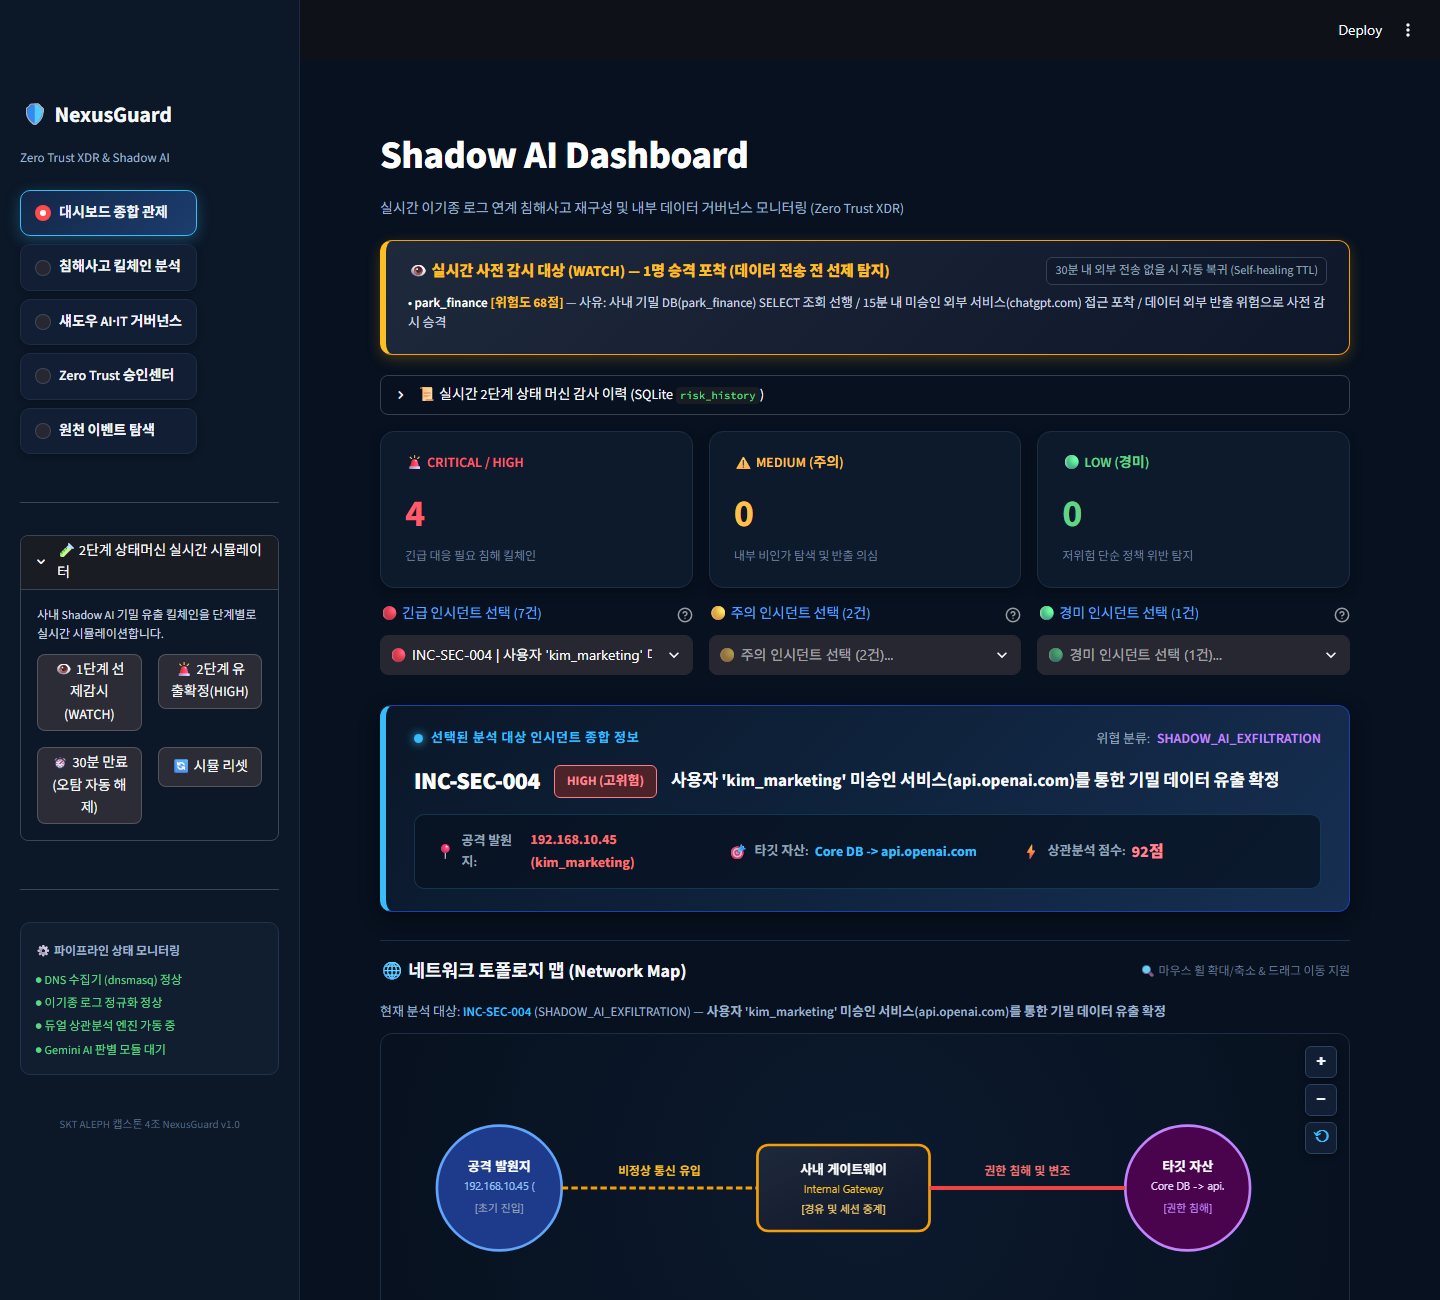
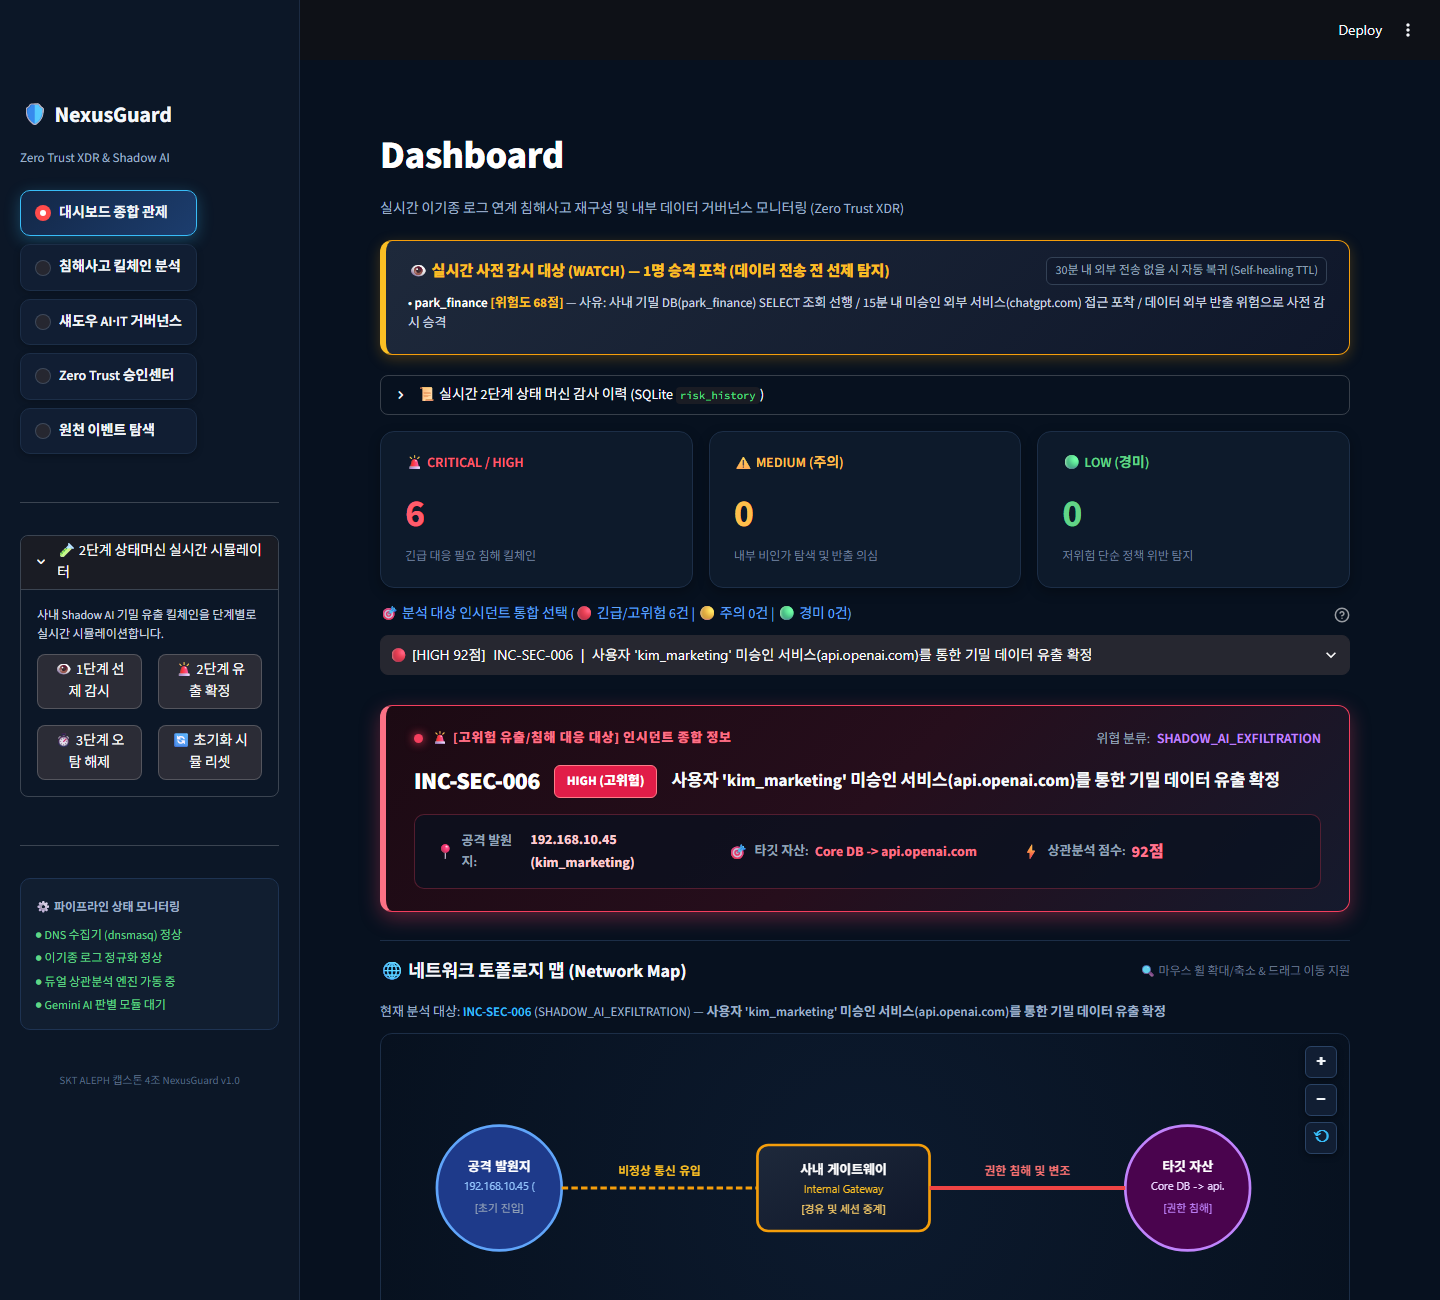
fix(ui): unify incident dropdown with severity badges, dynamic card theme, Dashboard title, and uniform simulator button sizes

diff --git a/nexusguard/ui/app.py b/nexusguard/ui/app.py
@@ -22,7 +22,7 @@ from nexusguard.schemas.event import SecurityEvent, LogSource, EventAction, Acto
 
 # 1. 페이지 기본 설정
 st.set_page_config(
-    page_title="Shadow AI Dashboard | NexusGuard",
+    page_title="Dashboard | NexusGuard",
     page_icon="🛡",
     layout="wide",
     initial_sidebar_state="expanded"
@@ -96,6 +96,24 @@ st.markdown("""
         font-size: 14px !important;
         font-weight: 600 !important;
         color: #f1f5f9 !important;
+    }
+
+    /* 사이드바 시뮬레이터 버튼 균일 크기 고정 및 줄바꿈 방지 */
+    section[data-testid="stSidebar"] div.stButton > button {
+        height: 56px !important;
+        min-height: 56px !important;
+        max-height: 56px !important;
+        width: 100% !important;
+        display: flex !important;
+        flex-direction: column !important;
+        align-items: center !important;
+        justify-content: center !important;
+        font-size: 12.5px !important;
+        font-weight: 700 !important;
+        line-height: 1.25 !important;
+        padding: 4px 6px !important;
+        border-radius: 8px !important;
+        white-space: pre-line !important;
     }
 
     /* KPI 카드 스타일 */
@@ -488,15 +506,15 @@ with st.sidebar:
         st.markdown("<div style='font-size:12px; color:#cbd5e1; margin-bottom:10px;'>사내 Shadow AI 기밀 유출 킬체인을 단계별로 실시간 시뮬레이션합니다.</div>", unsafe_allow_html=True)
         col_s1, col_s2 = st.columns(2)
         with col_s1:
-            btn_watch = st.button("👁 1단계\n선제감시(WATCH)", use_container_width=True, help="기밀 DB 조회 + 미승인 AI 질의 발생 -> 전송 전 WATCH 상태 승격")
+            btn_watch = st.button("👁 1단계\n선제 감시", use_container_width=True, help="기밀 DB 조회 + 미승인 AI 질의 발생 -> 전송 전 WATCH 상태 승격")
         with col_s2:
-            btn_high = st.button("🚨 2단계\n유출확정(HIGH)", use_container_width=True, help="WATCH 대상자의 48MB 대용량 외부 전송 발생 -> HIGH Incident 즉시 확정")
+            btn_high = st.button("🚨 2단계\n유출 확정", use_container_width=True, help="WATCH 대상자의 48MB 대용량 외부 전송 발생 -> HIGH Incident 즉시 확정")
             
         col_s3, col_s4 = st.columns(2)
         with col_s3:
-            btn_heal = st.button("⏱ 30분 만료\n(오탐 자동 해제)", use_container_width=True, help="전송 없이 30분 경과 -> NORMAL 상태로 자가 치유")
+            btn_heal = st.button("⏱ 3단계\n오탐 해제", use_container_width=True, help="전송 없이 30분 경과 -> NORMAL 상태로 자가 치유")
         with col_s4:
-            btn_reset = st.button("🔄 시뮬 리셋", use_container_width=True, help="시뮬레이션 데이터 초기화")
+            btn_reset = st.button("🔄 초기화\n시뮬 리셋", use_container_width=True, help="시뮬레이션 데이터 초기화")
 
     if btn_watch:
         now = datetime.utcnow()
@@ -1251,7 +1269,7 @@ def render_interactive_map(svg_markup: str):
 if menu == "대시보드 종합 관제":
     st.markdown("""
     <div style="margin-bottom: 20px;">
-        <h1 style="margin:0; font-size: 39px; font-weight: 800; color:#ffffff; letter-spacing: -0.5px;">Shadow AI Dashboard</h1>
+        <h1 style="margin:0; font-size: 39px; font-weight: 800; color:#ffffff; letter-spacing: -0.5px;">Dashboard</h1>
         <span style="color: #9fb0c8; font-size: 14px;">실시간 이기종 로그 연계 침해사고 재구성 및 내부 데이터 거버넌스 모니터링 (Zero Trust XDR)</span>
     </div>
     """, unsafe_allow_html=True)
@@ -1266,68 +1284,33 @@ if menu == "대시보드 종합 관제":
     if "selected_incident_id" not in st.session_state or st.session_state.selected_incident_id not in all_incident_ids:
         st.session_state.selected_incident_id = all_incident_ids[0]
 
-    # 3대 위험도별 드롭다운 콜백 함수 (다른 그룹의 드롭다운 값은 리셋하여 재선택 가능하도록 처리)
-    def on_select_crit_high():
-        val = st.session_state.sel_crit_high_dropdown
-        if val:
-            st.session_state.selected_incident_id = val
-            st.session_state.sel_med_dropdown = None
-            st.session_state.sel_low_dropdown = None
+    # 위험도 우선순위 정렬: CRITICAL -> HIGH -> MEDIUM -> LOW (동일 등급 내 점수 내림차순)
+    sev_order = {Severity.CRITICAL: 0, Severity.HIGH: 1, Severity.MEDIUM: 2, Severity.LOW: 3}
+    sorted_incidents = sorted(
+        incidents,
+        key=lambda x: (sev_order.get(x.severity, 99), -x.score)
+    )
+    sorted_incident_ids = [inc.incident_id for inc in sorted_incidents]
 
-    def on_select_med():
-        val = st.session_state.sel_med_dropdown
-        if val:
-            st.session_state.selected_incident_id = val
-            st.session_state.sel_crit_high_dropdown = None
-            st.session_state.sel_low_dropdown = None
-
-    def on_select_low():
-        val = st.session_state.sel_low_dropdown
-        if val:
-            st.session_state.selected_incident_id = val
-            st.session_state.sel_crit_high_dropdown = None
-            st.session_state.sel_med_dropdown = None
-
-    # 드롭다운 옵션 레이블 포맷터
-    # 🔴 사용자 요청: 긴급 인시던트 드롭다운 메뉴 안의 모든 항목 앞 위험도 색상을 '빨강(🔴)'으로 통일
-    def format_crit_high_dropdown(inc_id: str) -> str:
+    # 🌟 [단일 통합 드롭다운 포맷터] 위험도별 색상 및 기호로 시인성 극대화
+    def format_unified_incident(inc_id: str) -> str:
         inc = ctx.correlation_engine.get_incident(inc_id)
         if not inc:
             return inc_id
-        return f"🔴 {inc.incident_id} | {inc.title}"
+        if inc.severity == Severity.CRITICAL:
+            badge = f"🔴 [CRITICAL {inc.score}점]"
+        elif inc.severity == Severity.HIGH:
+            badge = f"🔴 [HIGH {inc.score}점]"
+        elif inc.severity == Severity.MEDIUM:
+            badge = f"🟡 [MEDIUM {inc.score}점]"
+        else:
+            badge = f"🟢 [LOW {inc.score}점]"
+        return f"{badge}  {inc.incident_id}  |  {inc.title}"
 
-    def format_med_dropdown(inc_id: str) -> str:
-        inc = ctx.correlation_engine.get_incident(inc_id)
-        if not inc:
-            return inc_id
-        return f"🟡 {inc.incident_id} | {inc.title}"
+    cur_idx = sorted_incident_ids.index(st.session_state.selected_incident_id) if st.session_state.selected_incident_id in sorted_incident_ids else 0
 
-    def format_low_dropdown(inc_id: str) -> str:
-        inc = ctx.correlation_engine.get_incident(inc_id)
-        if not inc:
-            return inc_id
-        return f"🟢 {inc.incident_id} | {inc.title}"
-
-    # 세션 상태 안전 동기화 (현재 선택된 인시던트가 속한 그룹만 활성화하고, 나머지는 None으로 설정하여 변경 감지 보장)
-    cur_sel = st.session_state.selected_incident_id
-
-    if cur_sel in crit_high_ids:
-        st.session_state.sel_crit_high_dropdown = cur_sel
-        st.session_state.sel_med_dropdown = None
-        st.session_state.sel_low_dropdown = None
-    elif cur_sel in med_ids:
-        st.session_state.sel_med_dropdown = cur_sel
-        st.session_state.sel_crit_high_dropdown = None
-        st.session_state.sel_low_dropdown = None
-    elif cur_sel in low_ids:
-        st.session_state.sel_low_dropdown = cur_sel
-        st.session_state.sel_crit_high_dropdown = None
-        st.session_state.sel_med_dropdown = None
-
-    # 각 드롭다운의 초기 인덱스 계산
-    crit_high_idx = crit_high_ids.index(cur_sel) if cur_sel in crit_high_ids else None
-    med_idx = med_ids.index(cur_sel) if cur_sel in med_ids else None
-    low_idx = low_ids.index(cur_sel) if cur_sel in low_ids else None
+    def on_select_unified():
+        st.session_state.selected_incident_id = st.session_state.sel_unified_incident
 
     # 🌟 [2단계 위험 상태 기계] 실시간 감시 대상 (WATCH) 현황판
     watch_users = ctx.correlation_engine.get_watch_users()
@@ -1361,10 +1344,9 @@ if menu == "대시보드 종합 관제":
         else:
             st.caption("아직 기록된 상태 전이 이력이 없습니다. 좌측 사이드바 시뮬레이터를 실행해보세요.")
 
-    # 3대 위험도별 KPI 카드 및 드롭다운 메뉴 (CRITICAL/HIGH, MEDIUM, LOW로 3분할 균등 확장)
+    # 3대 위험도별 KPI 카드
     kpi1, kpi2, kpi3 = st.columns(3)
 
-    # [파트 1] CRITICAL / HIGH
     with kpi1:
         st.markdown(f"""
         <div class="kpi-card">
@@ -1375,18 +1357,7 @@ if menu == "대시보드 종합 관제":
             <div class="kpi-sub">긴급 대응 필요 침해 킬체인</div>
         </div>
         """, unsafe_allow_html=True)
-        st.selectbox(
-            "🔴 긴급 인시던트 선택 (7건)",
-            options=crit_high_ids,
-            index=crit_high_idx,
-            placeholder="🔴 긴급 인시던트 선택 (7건)...",
-            format_func=format_crit_high_dropdown,
-            key="sel_crit_high_dropdown",
-            on_change=on_select_crit_high,
-            help="치명(Critical) 및 고위험(High) 긴급 대응 인시던트 목록입니다."
-        )
 
-    # [파트 2] MEDIUM (주의)
     with kpi2:
         st.markdown(f"""
         <div class="kpi-card">
@@ -1397,18 +1368,7 @@ if menu == "대시보드 종합 관제":
             <div class="kpi-sub">내부 비인가 탐색 및 반출 의심</div>
         </div>
         """, unsafe_allow_html=True)
-        st.selectbox(
-            "🟡 주의 인시던트 선택 (2건)",
-            options=med_ids,
-            index=med_idx,
-            placeholder="🟡 주의 인시던트 선택 (2건)...",
-            format_func=format_med_dropdown,
-            key="sel_med_dropdown",
-            on_change=on_select_med,
-            help="주의(Medium) 단계 인시던트 목록입니다."
-        )
 
-    # [파트 3] LOW (경미)
     with kpi3:
         st.markdown(f"""
         <div class="kpi-card">
@@ -1419,32 +1379,89 @@ if menu == "대시보드 종합 관제":
             <div class="kpi-sub">저위험 단순 정책 위반 탐지</div>
         </div>
         """, unsafe_allow_html=True)
-        st.selectbox(
-            "🟢 경미 인시던트 선택 (1건)",
-            options=low_ids,
-            index=low_idx,
-            placeholder="🟢 경미 인시던트 선택 (1건)...",
-            format_func=format_low_dropdown,
-            key="sel_low_dropdown",
-            on_change=on_select_low,
-            help="경미(Low) 단계 인시던트 목록입니다."
-        )
 
-    # 선택된 분석 대상 인시던트 종합 정보 카드 (전폭 100% 확장 및 세로 길이 대폭 확대)
+    # 🌟 [단일 통합 드롭다운] 사용자 요청: 3분할 드롭다운을 1개로 통합하고 위험도별 색상과 기호로 가시성 극대화
+    st.selectbox(
+        f"🎯 분석 대상 인시던트 통합 선택 (🔴 긴급/고위험 {len(crit_high_ids)}건  |  🟡 주의 {len(med_ids)}건  |  🟢 경미 {len(low_ids)}건)",
+        options=sorted_incident_ids,
+        index=cur_idx,
+        format_func=format_unified_incident,
+        key="sel_unified_incident",
+        on_change=on_select_unified,
+        help="위험도별(🔴긴급/고위험 ➔ 🟡주의 ➔ 🟢경미)로 정렬된 통합 인시던트 목록입니다."
+    )
+
+    # 선택된 분석 대상 인시던트 종합 정보 카드 (위험도별 동적 색상 및 테마 반영)
     selected_inc = ctx.correlation_engine.get_incident(st.session_state.selected_incident_id)
-    sev_badge_bar = {
-        Severity.CRITICAL: '<span class="badge badge-critical" style="font-size:13px; padding:5px 12px;">CRITICAL (치명)</span>',
-        Severity.HIGH: '<span class="badge badge-high" style="font-size:13px; padding:5px 12px;">HIGH (고위험)</span>',
-        Severity.MEDIUM: '<span class="badge badge-medium" style="font-size:13px; padding:5px 12px;">MEDIUM (주의)</span>',
-        Severity.LOW: '<span class="badge badge-low" style="font-size:13px; padding:5px 12px;">LOW (경미)</span>'
-    }.get(selected_inc.severity, "")
+
+    # 🌟 사용자 요청: 위험도 색상을 카드 테두리, 발광, 텍스트, 뱃지 전반에 반영하여 시인성 향상
+    if selected_inc.severity == Severity.CRITICAL:
+        card_theme = {
+            "border": "#ef4444",
+            "border_left": "#f87171",
+            "glow": "rgba(239, 68, 68, 0.35)",
+            "bg": "linear-gradient(135deg, #1f0b12 0%, #290f1b 50%, #151a2d 100%)",
+            "header_color": "#f87171",
+            "header_label": "🚨 [치명적 침해사고 긴급 격리 대상] 인시던트 종합 정보",
+            "dot_glow": "#ef4444",
+            "badge": '<span class="badge badge-critical" style="font-size:13px; padding:5px 12px; background:#dc2626; color:#ffffff; font-weight:800; border-radius:6px;">CRITICAL (치명)</span>',
+            "score_color": "#ff4d61",
+            "actor_color": "#fca5a5",
+            "target_color": "#f87171",
+            "inner_border": "rgba(239, 68, 68, 0.3)",
+        }
+    elif selected_inc.severity == Severity.HIGH:
+        card_theme = {
+            "border": "#f43f5e",
+            "border_left": "#fb7185",
+            "glow": "rgba(244, 63, 94, 0.35)",
+            "bg": "linear-gradient(135deg, #1c0a13 0%, #260e1c 50%, #151a2d 100%)",
+            "header_color": "#fb7185",
+            "header_label": "🚨 [고위험 유출/침해 대응 대상] 인시던트 종합 정보",
+            "dot_glow": "#f43f5e",
+            "badge": '<span class="badge badge-high" style="font-size:13px; padding:5px 12px; background:#e11d48; color:#ffffff; font-weight:800; border-radius:6px;">HIGH (고위험)</span>',
+            "score_color": "#ff758f",
+            "actor_color": "#fecdd3",
+            "target_color": "#fb7185",
+            "inner_border": "rgba(244, 63, 94, 0.3)",
+        }
+    elif selected_inc.severity == Severity.MEDIUM:
+        card_theme = {
+            "border": "#f59e0b",
+            "border_left": "#fbbf24",
+            "glow": "rgba(245, 158, 11, 0.35)",
+            "bg": "linear-gradient(135deg, #1c1507 0%, #261d0a 50%, #121927 100%)",
+            "header_color": "#fbbf24",
+            "header_label": "⚠ [주의 단계 모니터링 대상] 인시던트 종합 정보",
+            "dot_glow": "#f59e0b",
+            "badge": '<span class="badge badge-medium" style="font-size:13px; padding:5px 12px; background:#d97706; color:#ffffff; font-weight:800; border-radius:6px;">MEDIUM (주의)</span>',
+            "score_color": "#fbbf24",
+            "actor_color": "#fde68a",
+            "target_color": "#f59e0b",
+            "inner_border": "rgba(245, 158, 11, 0.3)",
+        }
+    else:  # LOW
+        card_theme = {
+            "border": "#10b981",
+            "border_left": "#34d399",
+            "glow": "rgba(16, 185, 129, 0.35)",
+            "bg": "linear-gradient(135deg, #091a13 0%, #0d261d 50%, #0d1927 100%)",
+            "header_color": "#34d399",
+            "header_label": "🟢 [경미 단계 단순 정책 위반 탐지 대상] 인시던트 종합 정보",
+            "dot_glow": "#10b981",
+            "badge": '<span class="badge badge-low" style="font-size:13px; padding:5px 12px; background:#059669; color:#ffffff; font-weight:800; border-radius:6px;">LOW (경미)</span>',
+            "score_color": "#34d399",
+            "actor_color": "#a7f3d0",
+            "target_color": "#10b981",
+            "inner_border": "rgba(16, 185, 129, 0.3)",
+        }
 
     st.markdown(f"""
-    <div style="background: linear-gradient(135deg, #0a1728 0%, #0f233d 50%, #162f52 100%); border: 1.5px solid #1e40af; border-left: 6px solid #38bdf8; border-radius: 12px; padding: 22px 28px; margin-top: 14px; margin-bottom: 8px; box-shadow: 0 6px 20px rgba(0,0,0,0.45);">
+    <div style="background: {card_theme['bg']}; border: 1.5px solid {card_theme['border']}; border-left: 6px solid {card_theme['border_left']}; border-radius: 12px; padding: 22px 28px; margin-top: 14px; margin-bottom: 8px; box-shadow: 0 6px 20px {card_theme['glow']};">
         <div style="display: flex; justify-content: space-between; align-items: center; margin-bottom: 12px;">
-            <div style="font-size: 13px; font-weight: 700; color: #38bdf8; letter-spacing: 0.8px; text-transform: uppercase; display: flex; align-items: center; gap: 8px;">
-                <span style="display:inline-block; width:9px; height:9px; border-radius:50%; background:#38bdf8; box-shadow:0 0 10px #38bdf8;"></span>
-                선택된 분석 대상 인시던트 종합 정보
+            <div style="font-size: 13px; font-weight: 800; color: {card_theme['header_color']}; letter-spacing: 0.8px; text-transform: uppercase; display: flex; align-items: center; gap: 8px;">
+                <span style="display:inline-block; width:9px; height:9px; border-radius:50%; background:{card_theme['dot_glow']}; box-shadow:0 0 10px {card_theme['dot_glow']};"></span>
+                {card_theme['header_label']}
             </div>
             <div style="font-size: 13px; color: #94a3b8;">
                 위협 분류: <b style="color: #c084fc; font-size:14px; margin-left:4px;">{selected_inc.category.value}</b>
@@ -1452,18 +1469,18 @@ if menu == "대시보드 종합 관제":
         </div>
         <div style="display: flex; align-items: center; gap: 14px; margin-bottom: 14px; flex-wrap: wrap;">
             <span style="font-size: 24px; font-weight: 900; color: #ffffff; letter-spacing: -0.5px;">{selected_inc.incident_id}</span>
-            {sev_badge_bar}
+            {card_theme['badge']}
             <span style="font-size: 17px; font-weight: 700; color: #f8fafc; line-height: 1.4;">{selected_inc.title}</span>
         </div>
-        <div style="display: grid; grid-template-columns: repeat(auto-fit, minmax(240px, 1fr)); gap: 14px; background: rgba(7, 17, 31, 0.7); padding: 14px 20px; border-radius: 10px; border: 1px solid rgba(56, 189, 248, 0.2);">
+        <div style="display: grid; grid-template-columns: repeat(auto-fit, minmax(240px, 1fr)); gap: 14px; background: rgba(7, 17, 31, 0.7); padding: 14px 20px; border-radius: 10px; border: 1px solid {card_theme['inner_border']};">
             <div style="font-size: 13px; color: #94a3b8; display:flex; align-items:center;">
-                <span style="font-size:15px; margin-right:6px;">📍</span> <b>공격 발원지:</b> <span style="color:#f87171; font-weight:700; font-size:14px; margin-left:6px;">{selected_inc.actor}</span>
+                <span style="font-size:15px; margin-right:6px;">📍</span> <b>공격 발원지:</b> <span style="color:{card_theme['actor_color']}; font-weight:700; font-size:14px; margin-left:6px;">{selected_inc.actor}</span>
             </div>
             <div style="font-size: 13px; color: #94a3b8; display:flex; align-items:center;">
-                <span style="font-size:15px; margin-right:6px;">🎯</span> <b>타깃 자산:</b> <span style="color:#38bdf8; font-weight:700; font-size:14px; margin-left:6px;">{selected_inc.target_asset}</span>
+                <span style="font-size:15px; margin-right:6px;">🎯</span> <b>타깃 자산:</b> <span style="color:{card_theme['target_color']}; font-weight:700; font-size:14px; margin-left:6px;">{selected_inc.target_asset}</span>
             </div>
             <div style="font-size: 13px; color: #94a3b8; display:flex; align-items:center;">
-                <span style="font-size:15px; margin-right:6px;">⚡</span> <b>상관분석 점수:</b> <span style="color:#ff8591; font-weight:800; font-size:16px; margin-left:6px;">{selected_inc.score}점</b>
+                <span style="font-size:15px; margin-right:6px;">⚡</span> <b>상관분석 점수:</b> <span style="color:{card_theme['score_color']}; font-weight:800; font-size:16px; margin-left:6px;">{selected_inc.score}점</span>
             </div>
         </div>
     </div>
